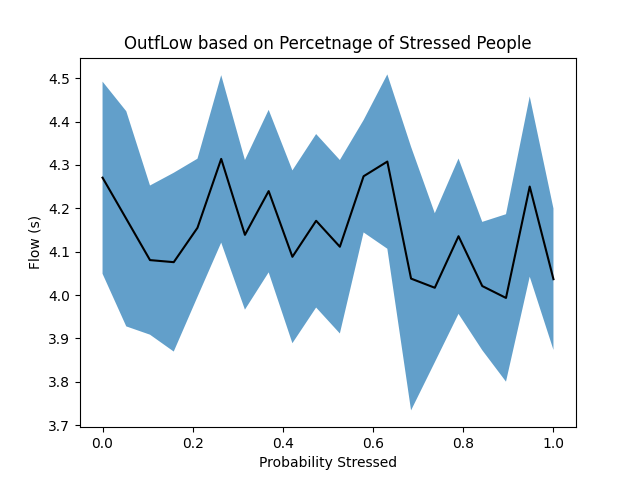
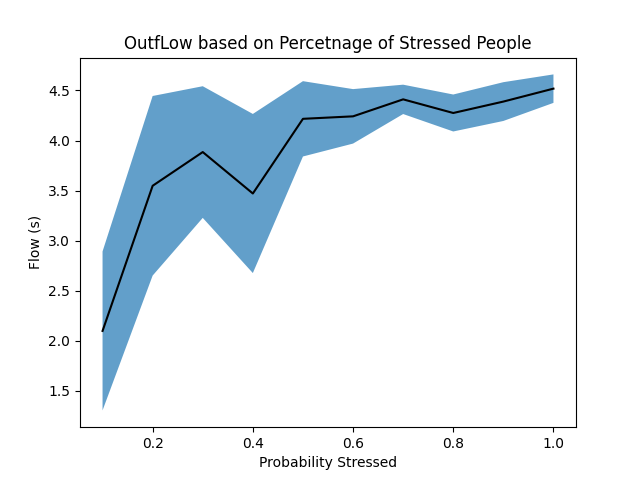
results strategy experiment

diff --git a/experiments/experiments_strategy_plots.py b/experiments/experiments_strategy_plots.py
@@ -1,0 +1,84 @@
+import pandas as pd
+import matplotlib.pyplot as plt
+import numpy as np
+from ast import literal_eval
+from pathlib import Path
+import scipy.optimize 
+
+df = pd.DataFrame()
+filename = Path(__file__).parent / "data/Exp_Prob_DistinctSamples10_MaxSteps10000_Repi5_Vision2_pop200.csv"
+df = df.append(pd.read_csv(filename, converters={'strategy_weights': literal_eval}))
+
+# Group by probability of nearest exit
+df["strategy_weights"] = df["strategy_weights"].apply(lambda x: list(x)[0])
+x = df.groupby("strategy_weights").mean().reset_index()["strategy_weights"]
+
+# Plot Flow
+y = df.groupby("strategy_weights").mean()["Flow"]
+err = (1.96 * df.groupby("strategy_weights")["Flow"].std()) / np.sqrt(5)
+
+plt.figure(figsize=(6,4),dpi=300)
+plt.errorbar(x, y, yerr=err, fmt='o', color='darkgreen',
+            ecolor='green', elinewidth=2, capsize=0)
+plt.ylabel("Pedestrian Flow (m$^{-1}$s$^{-1}$)", fontsize=12)
+plt.xlabel("Probability of 'Nearest Exit' %", fontsize=12)
+plt.title("'Follow the Leader' and 'Nearest Exit' Strategy Mixing Experiment", fontsize=12)
+plt.xticks(fontsize= 10)
+plt.yticks(fontsize= 10)
+plt.savefig(Path(__file__).parent / "images/exp_Prob_follow_flow.png")
+
+
+plt.clf()
+# Plot Evacuation Percentage
+
+y = df.groupby("strategy_weights").mean()["Evacuation percentage"]
+err = (1.96 * df.groupby("strategy_weights")["Evacuation percentage"].std()) / np.sqrt(5)
+
+plt.figure(figsize=(6,4),dpi=300)
+plt.errorbar(x, y, yerr=err, fmt='o', color='darkorange',
+    ecolor='orange', elinewidth=2, capsize=0)
+plt.xlabel("Probability of 'Nearest Exit' %", fontsize=12)
+plt.ylabel(f"Evacuation Percentage (%)", fontsize=12)
+plt.title("'Follow the Leader' and 'Nearest Exit' Strategy Mixing Experiment", fontsize=12)
+plt.xticks(fontsize= 10)
+plt.yticks(fontsize= 10)
+plt.savefig(Path(__file__).parent / "images/exp_Prob_follow_evacperc.png")
+
+# #plt.plot(x, y, c='k')
+# plt.errorbar(x, y, yerr=err, fmt='o', color='darkblue', ecolor='blue', elinewidth=2, capsize=0)
+# #plt.fill_between(x, y - err, y + err, alpha=0.7)
+# plt.xlabel("Probability of Nearest Exit Strategy (compared to Follow the Leader)")
+# plt.ylabel("Evacuation Time (s)")
+# plt.title("Evacuation Time Nearest Exit vs. Follow the Leader Strategy")
+# plt.savefig(Path(__file__).parent / "images/exp_Prob_follow_evactime.png")
+# plt.show()
+
+# plt.clf()
+
+# y = df.groupby("strategy_weights").mean()["Evacuation percentage"]
+# err = (1.96 * df.groupby("strategy_weights")["Evacuation percentage"].std()) / np.sqrt(5)
+
+
+# plt.plot(x, y, c='k')
+# #plt.errorbar(x, y, yerr=err, fmt='o', color='darkblue', ecolor='blue', elinewidth=2, capsize=0)
+# plt.fill_between(x, y - err, y + err, alpha=0.7)
+# plt.xlabel("Probability of Nearest Exit Strategy (compared to Follow the Leader)")
+# plt.ylabel("Evacuation Percentage (%)")
+# plt.title("Evacuation Percentage Nearest Exit vs. Follow the Leader Strategy")
+# plt.savefig(Path(__file__).parent / "images/exp_Prob_follow_perc.png")
+# plt.show()
+
+# plt.clf()
+
+# y = df.groupby("strategy_weights").mean()["Flow"]
+# err = (1.96 * df.groupby("strategy_weights")["Flow"].std()) / np.sqrt(5)
+
+# plt.plot(x, y, c='k')
+# plt.fill_between(x, y - err, y + err, alpha=0.7)
+# plt.xlabel("Probability Stressed")
+# plt.ylabel("Flow (s)")
+# plt.title("Outflow Nearest Exit vs. Follow the Leader Strategy")
+# plt.savefig(Path(__file__).parent / "images/exp_Prob_follow_flow.png")
+# plt.show()
+
+# plt.clf()
